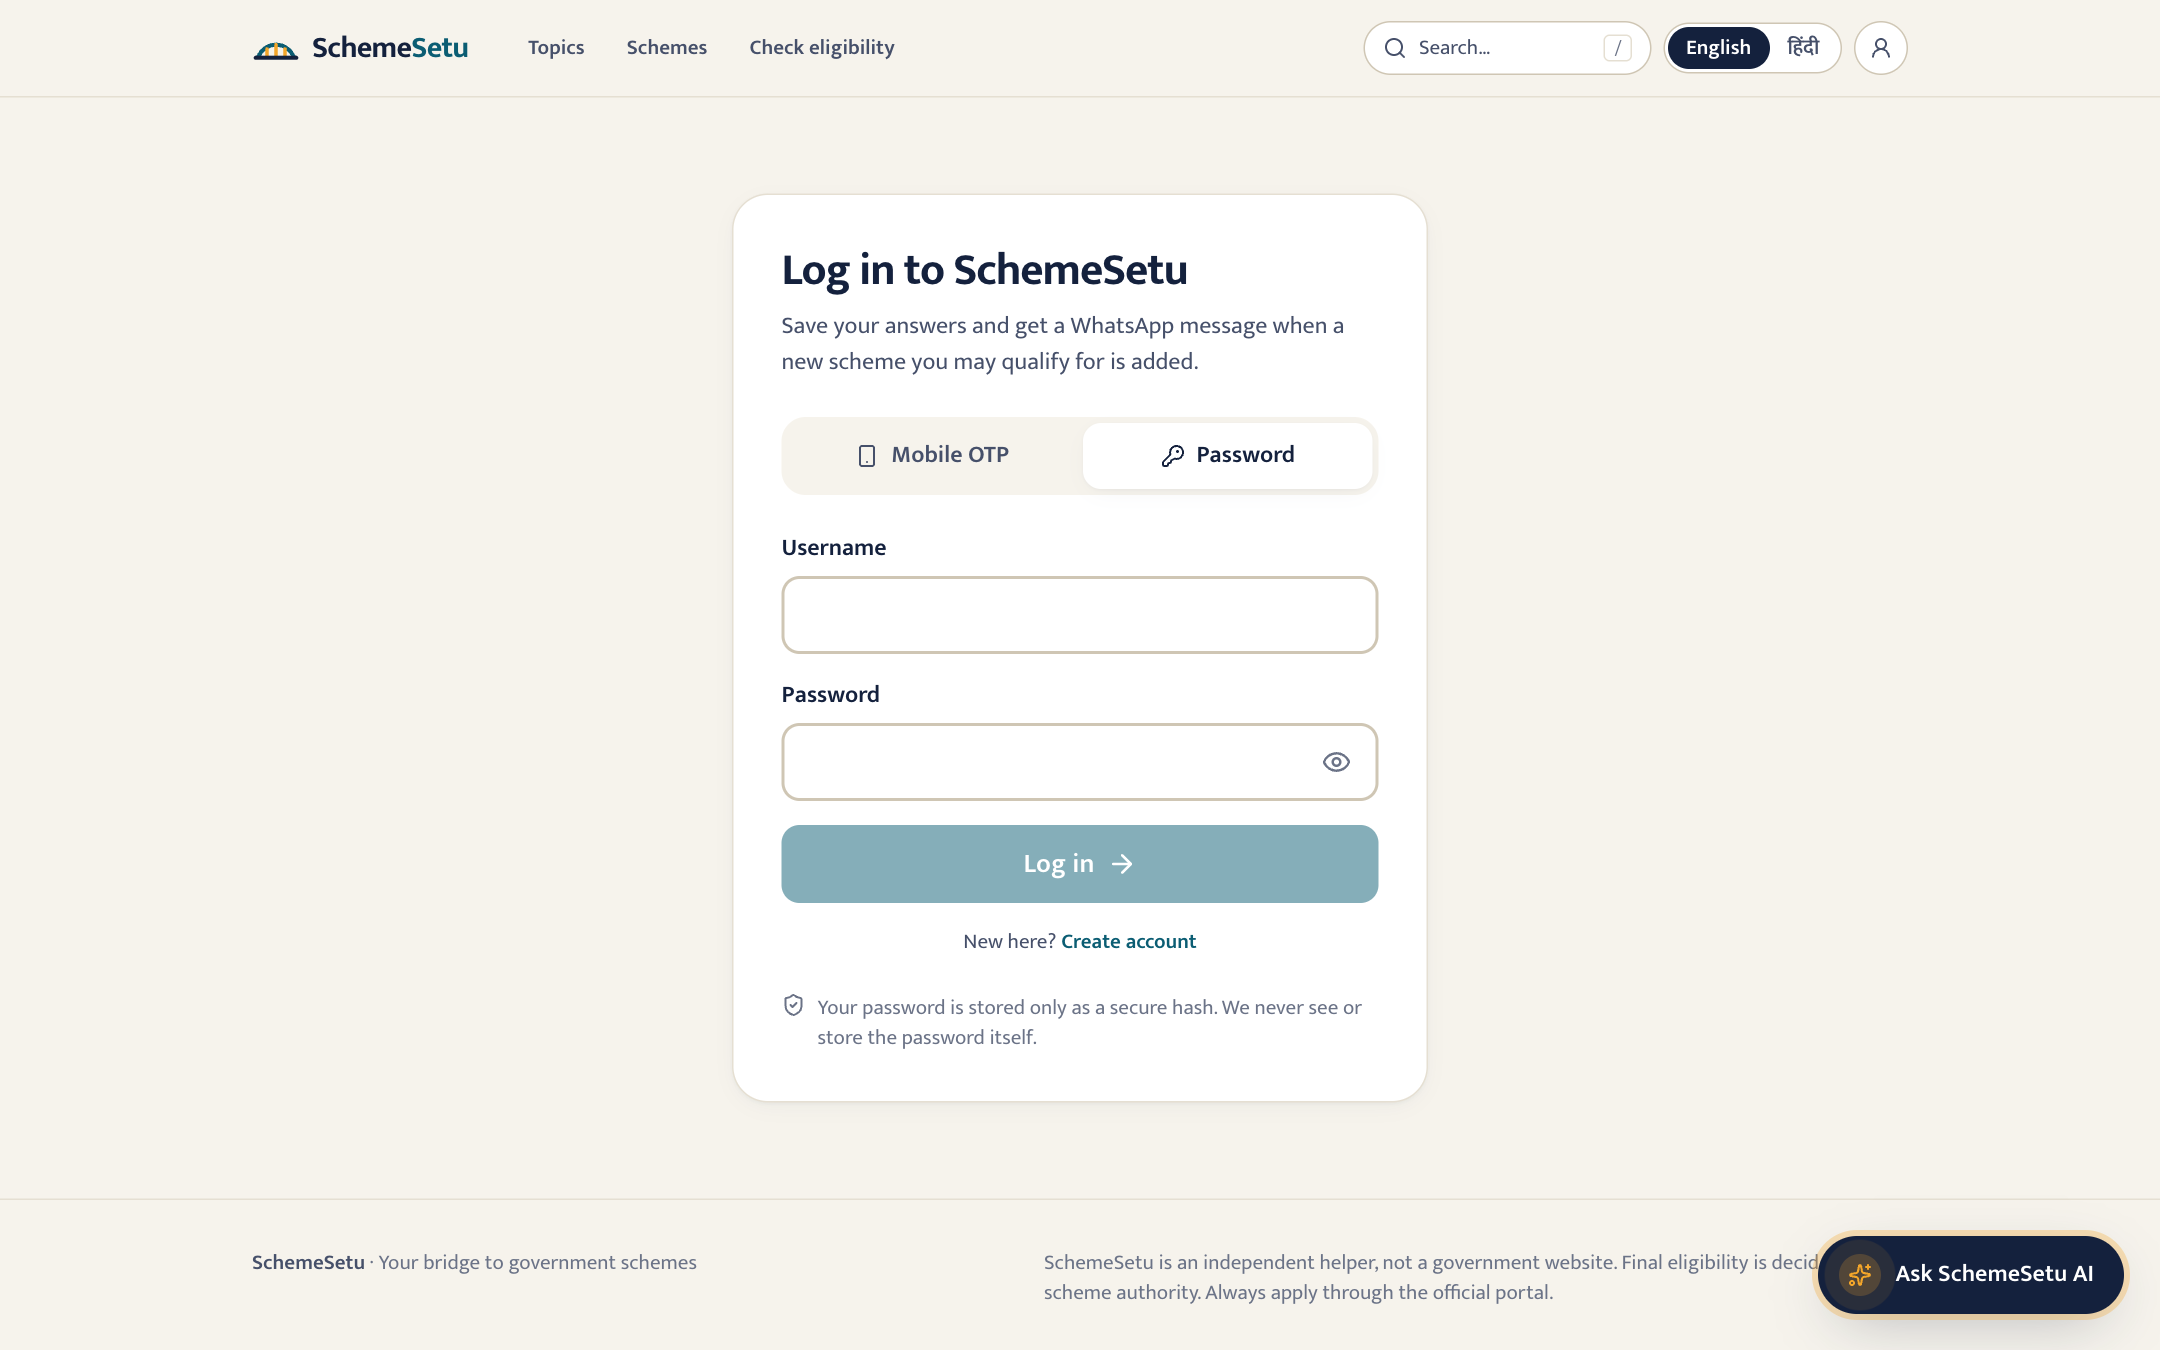
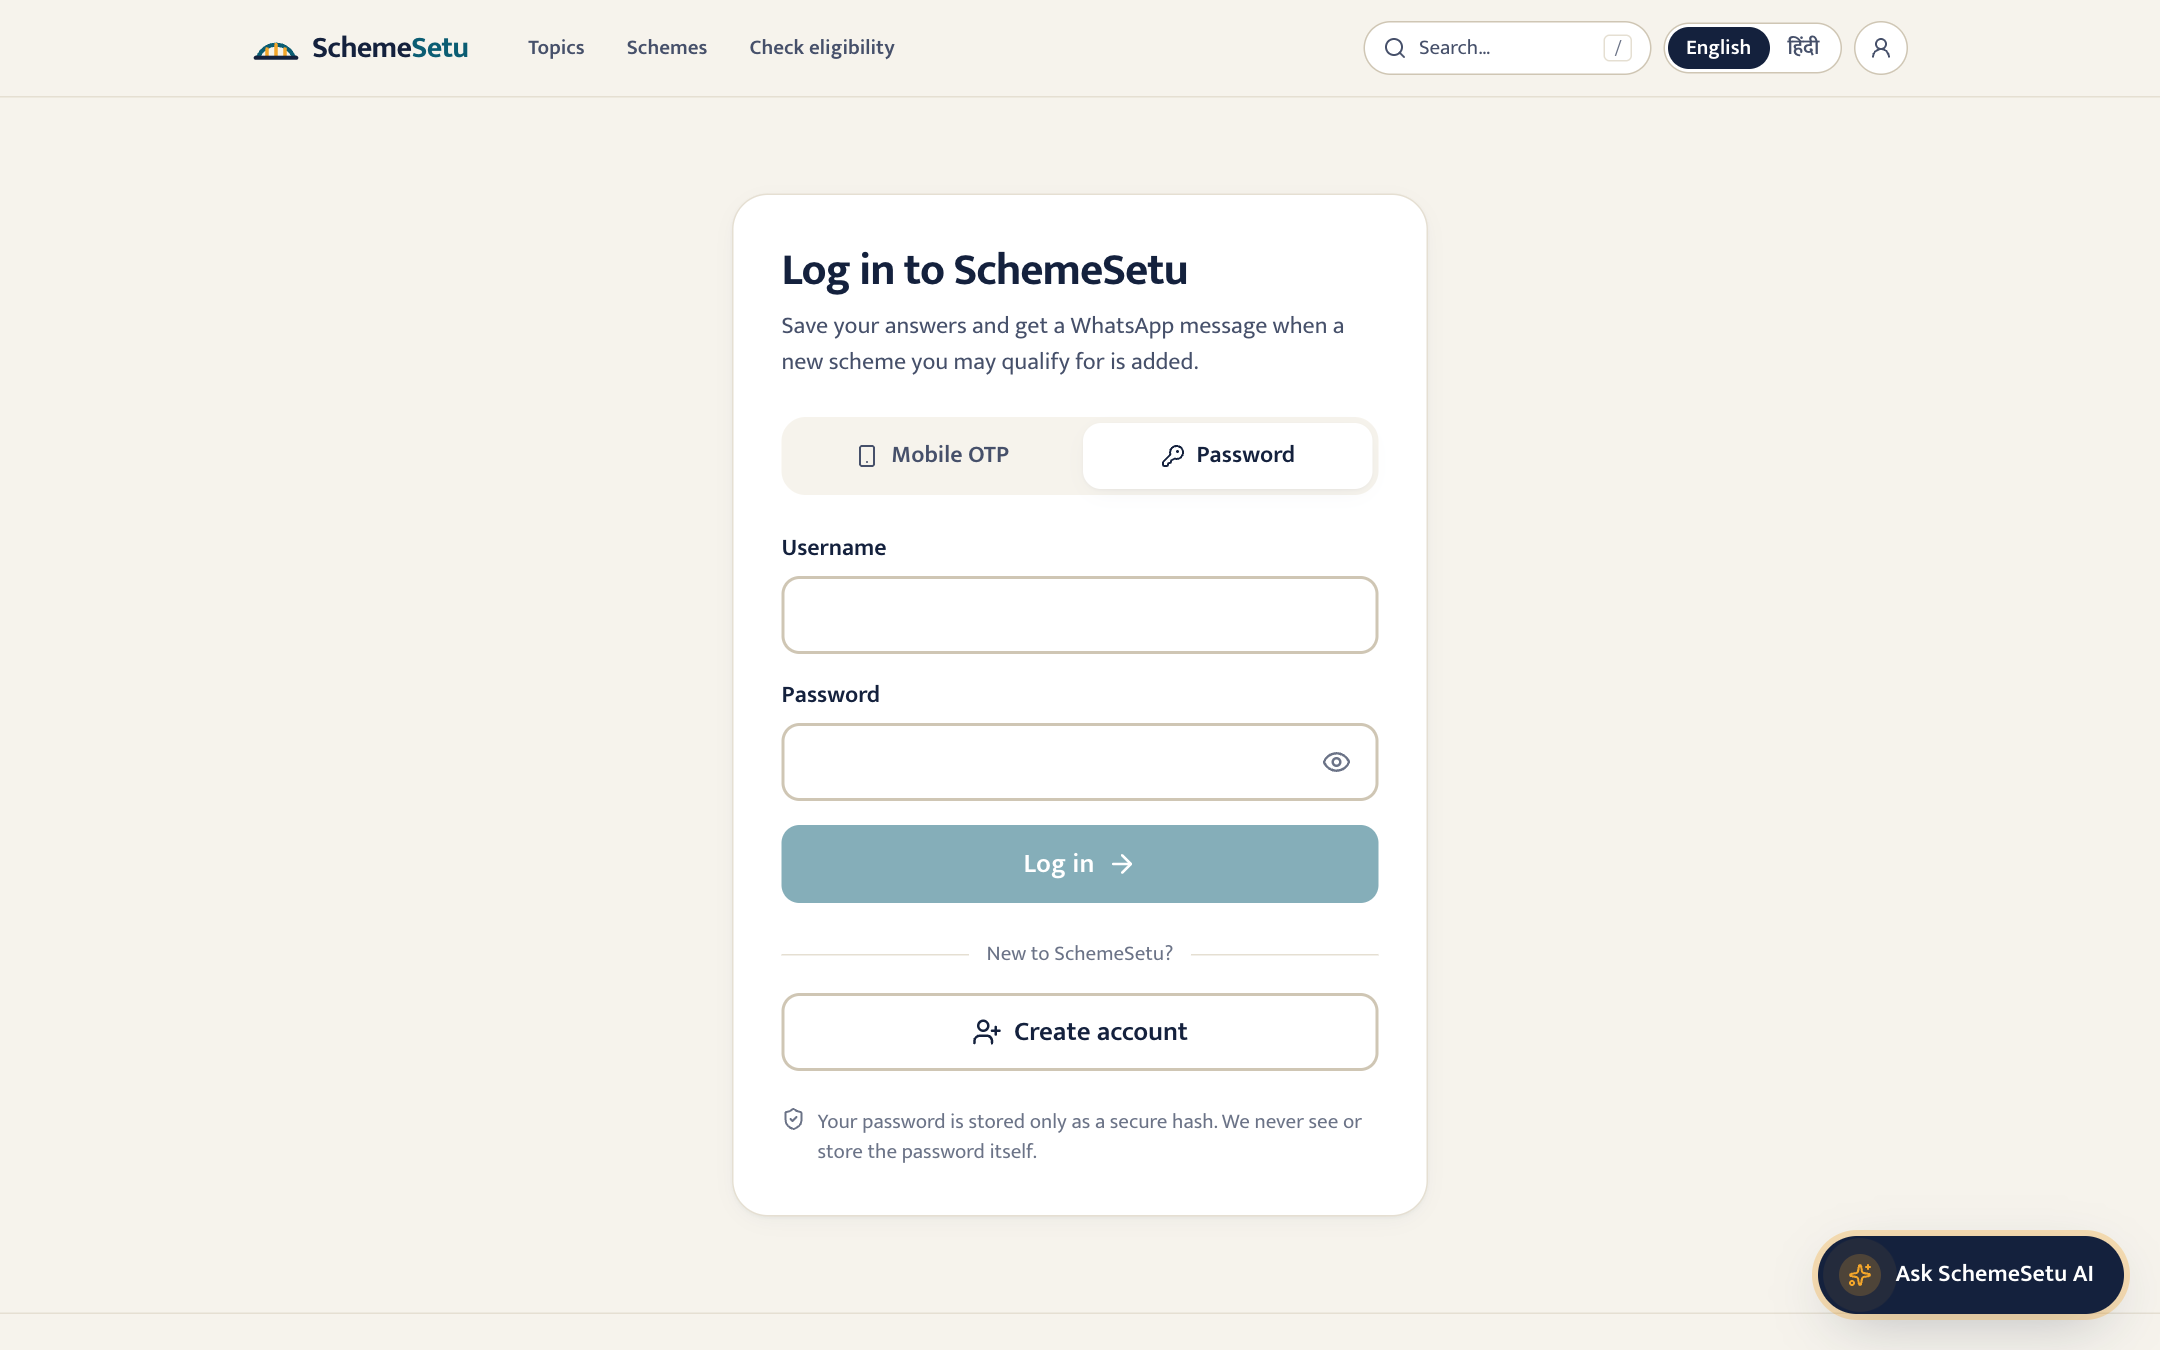
Make sign-up as visible as log-in
A new user who tried "Log in" first only saw "Wrong username or password",
with sign-up hidden behind a small link.

- Full-width "Create account" button under "Log in" (and "Log in" when
  signing up), and a "Create your account" title in sign-up mode.
- The failed-login message tells new users to create an account first;
  the typed username carries over when they switch.
- Errors show right under the button that caused them.
- The OTP tab says that verifying a number creates the account.
- /login?mode=signup opens the sign-up form directly.

diff --git a/frontend/src/components/account/login-form.tsx b/frontend/src/components/account/login-form.tsx
@@ -1,8 +1,8 @@
 "use client";
 
-import { ArrowRight, Eye, EyeOff, KeyRound, LoaderCircle, ShieldCheck, Smartphone } from "lucide-react";
+import { ArrowRight, Eye, EyeOff, KeyRound, LoaderCircle, ShieldCheck, Smartphone, UserPlus } from "lucide-react";
 import { useRouter, useSearchParams } from "next/navigation";
-import { useEffect, useId, useState, type FormEvent } from "react";
+import { useEffect, useId, useState, type FormEvent, type ReactNode } from "react";
 
 import { setMe, useMe } from "@/lib/account";
 import { answersFrom, loadSaved, persistAnswers } from "@/lib/answers";
@@ -15,7 +15,10 @@ const RESEND_SECONDS = 30;
 
 type Method = "otp" | "password";
 
-/** Login with a phone OTP or a username + password. A logged-in account without a phone uses the OTP form to add one. */
+/**
+ * Log in or sign up with a phone OTP, or with a username + password.
+ * ?mode=otp|password|signup picks the starting form. A logged-in account without a phone uses the OTP form to add one.
+ */
 export function LoginForm({ lang }: { lang: Lang }) {
   const t = getDictionary(lang).auth;
   const router = useRouter();
@@ -24,17 +27,22 @@ export function LoginForm({ lang }: { lang: Lang }) {
   const next = params.get("next")?.startsWith("/") ? params.get("next")! : `/${lang}/account`;
   const addingPhone = !!me && !me.phone;
   const mode = params.get("mode");
-  const [method, setMethod] = useState<Method>(mode === "password" ? "password" : "otp");
+  const [method, setMethod] = useState<Method>(mode === "password" || mode === "signup" ? "password" : "otp");
+  const [registering, setRegistering] = useState(mode === "signup");
   const [error, setError] = useState<string | null>(null);
   const [visit, setVisit] = useState(0);
   const active: Method = addingPhone ? "otp" : method;
+  const signingUp = active === "password" && registering;
 
   // Next keeps this route's state alive between visits: follow ?mode= when it changes,
   // and start from empty forms once the user has logged out.
   const [seen, setSeen] = useState({ mode, me });
   if (seen.mode !== mode || seen.me !== me) {
     setSeen({ mode, me });
-    if (seen.mode !== mode && (mode === "otp" || mode === "password")) setMethod(mode);
+    if (seen.mode !== mode && (mode === "otp" || mode === "password" || mode === "signup")) {
+      setMethod(mode === "otp" ? "otp" : "password");
+      setRegistering(mode === "signup");
+    }
     if (seen.me && me === null) {
       setVisit((v) => v + 1);
       setError(null);
@@ -64,6 +72,13 @@ export function LoginForm({ lang }: { lang: Lang }) {
     return getDictionary(lang).checker.error;
   }
 
+  const onError = (e: unknown | null) => setError(e ? explain(e) : null);
+  const alert = error && (
+    <p role="alert" className="rounded-xl bg-danger-soft px-4 py-3 font-semibold text-danger">
+      {error}
+    </p>
+  );
+
   const tab = (m: Method) =>
     `flex flex-1 items-center justify-center gap-2 rounded-xl px-3 py-2.5 text-sm font-semibold transition-colors sm:text-base ${
       active === m ? "bg-surface text-ink shadow-card" : "text-ink-2 hover:text-ink"
@@ -71,8 +86,10 @@ export function LoginForm({ lang }: { lang: Lang }) {
 
   return (
     <div className="animate-rise rounded-3xl border border-line bg-surface p-6 shadow-card sm:p-8">
-      <h1 className="text-2xl font-bold tracking-tight sm:text-3xl">{addingPhone ? t.addPhoneTitle : t.title2}</h1>
-      <p className="mt-2 text-ink-2">{addingPhone ? t.addPhoneBody : t.subtitle}</p>
+      <h1 className="text-2xl font-bold tracking-tight sm:text-3xl">
+        {addingPhone ? t.addPhoneTitle : signingUp ? t.signupTitle : t.title2}
+      </h1>
+      <p className="mt-2 text-ink-2">{addingPhone ? t.addPhoneBody : signingUp ? t.signupSubtitle : t.subtitle}</p>
 
       {!addingPhone && (
         <div role="tablist" aria-label={t.title2} className="mt-6 flex gap-1 rounded-2xl bg-paper p-1">
@@ -106,16 +123,22 @@ export function LoginForm({ lang }: { lang: Lang }) {
       )}
 
       {active === "otp" ? (
-        <OtpForm key={visit} lang={lang} onDone={finish} onError={(e) => setError(e ? explain(e) : null)} />
+        <OtpForm key={visit} lang={lang} onDone={finish} onError={onError} alert={alert} hint={!addingPhone} />
       ) : (
-        <PasswordForm key={visit} lang={lang} onDone={finish} onError={(e) => setError(e ? explain(e) : null)} />
+        <PasswordForm
+          key={visit}
+          lang={lang}
+          onDone={finish}
+          onError={onError}
+          alert={alert}
+          registering={registering}
+          onSwitch={() => {
+            setRegistering((r) => !r);
+            setError(null);
+          }}
+        />
       )}
 
-      {error && (
-        <p role="alert" className="mt-4 rounded-xl bg-danger-soft px-4 py-3 font-semibold text-danger">
-          {error}
-        </p>
-      )}
       <p className="mt-6 flex gap-2 text-sm text-ink-3">
         <ShieldCheck className="size-4 shrink-0" aria-hidden="true" />
         {active === "password" ? t.passwordPrivacy : t.privacy}
@@ -128,10 +151,18 @@ const inputClass =
   "min-h-13 w-full rounded-xl border-2 border-line-strong bg-surface px-4 text-lg outline-none focus:border-brand";
 const buttonClass =
   "inline-flex min-h-13 w-full items-center justify-center gap-2 rounded-xl bg-brand px-5 text-lg font-semibold text-white transition hover:bg-brand-strong disabled:opacity-50";
+const secondaryButtonClass =
+  "inline-flex min-h-13 w-full items-center justify-center gap-2 rounded-xl border-2 border-line-strong bg-surface px-5 text-lg font-semibold text-ink transition hover:border-brand hover:text-brand";
 
-type FormProps = { lang: Lang; onDone: (me: Me) => Promise<void>; onError: (e: unknown | null) => void };
+type FormProps = {
+  lang: Lang;
+  onDone: (me: Me) => Promise<void>;
+  onError: (e: unknown | null) => void;
+  /** The current error, shown right under the submit button. */
+  alert: ReactNode;
+};
 
-function OtpForm({ lang, onDone, onError }: FormProps) {
+function OtpForm({ lang, onDone, onError, alert, hint }: FormProps & { hint: boolean }) {
   const t = getDictionary(lang).auth;
   const [step, setStep] = useState<"phone" | "code">("phone");
   const [phone, setPhone] = useState("");
@@ -195,6 +226,8 @@ function OtpForm({ lang, onDone, onError }: FormProps) {
           {t.sendCode}
           <ArrowRight className="size-5" aria-hidden="true" />
         </button>
+        {alert}
+        {hint && <p className="text-center text-sm text-ink-2">{t.otpNewHint}</p>}
       </form>
     );
   }
@@ -218,6 +251,7 @@ function OtpForm({ lang, onDone, onError }: FormProps) {
         {busy ? <LoaderCircle className="size-5 animate-spin" aria-hidden="true" /> : null}
         {t.verify}
       </button>
+      {alert}
       <div className="flex flex-wrap justify-between gap-2 text-sm font-semibold">
         <button type="button" onClick={() => setStep("phone")} className="text-ink-2 hover:text-ink">
           {t.changeNumber}
@@ -230,16 +264,21 @@ function OtpForm({ lang, onDone, onError }: FormProps) {
   );
 }
 
-function PasswordForm({ lang, onDone, onError }: FormProps) {
+function PasswordForm({
+  lang,
+  onDone,
+  onError,
+  alert,
+  registering,
+  onSwitch,
+}: FormProps & { registering: boolean; onSwitch: () => void }) {
   const t = getDictionary(lang).auth;
-  const [mode, setMode] = useState<"login" | "register">("login");
   const [username, setUsername] = useState("");
   const [password, setPassword] = useState("");
   const [confirm, setConfirm] = useState("");
   const [visible, setVisible] = useState(false);
   const [busy, setBusy] = useState(false);
   const id = useId();
-  const registering = mode === "register";
 
   async function submit(e: FormEvent) {
     e.preventDefault();
@@ -339,19 +378,22 @@ function PasswordForm({ lang, onDone, onError }: FormProps) {
         {registering ? t.createAccount : t.signIn}
         <ArrowRight className="size-5" aria-hidden="true" />
       </button>
-      <p className="text-center text-sm text-ink-2">
-        {registering ? t.haveAccount : t.noAccount}{" "}
-        <button
-          type="button"
-          onClick={() => {
-            setMode(registering ? "login" : "register");
-            onError(null);
-          }}
-          className="font-semibold text-brand hover:text-brand-strong"
-        >
-          {registering ? t.signIn : t.createAccount}
-        </button>
-      </p>
+      {alert}
+
+      {/* Signing up is as visible as logging in: a full button, not a small link. */}
+      <div className="flex items-center gap-3 pt-2 text-sm text-ink-3">
+        <span className="h-px flex-1 bg-line" aria-hidden="true" />
+        {registering ? t.haveAccount : t.noAccount}
+        <span className="h-px flex-1 bg-line" aria-hidden="true" />
+      </div>
+      <button type="button" onClick={onSwitch} className={secondaryButtonClass}>
+        {registering ? (
+          <KeyRound className="size-5" aria-hidden="true" />
+        ) : (
+          <UserPlus className="size-5" aria-hidden="true" />
+        )}
+        {registering ? t.signIn : t.createAccount}
+      </button>
     </form>
   );
 }

diff --git a/frontend/src/lib/i18n.ts b/frontend/src/lib/i18n.ts
@@ -131,6 +131,9 @@ const en = {
     changeNumber: "Change number",
     privacy: "We only store your phone number and the answers you choose to save. You can delete them any time.",
     title2: "Log in to SchemeSetu",
+    signupTitle: "Create your account",
+    signupSubtitle: "Pick a username and password. No phone number or ID needed.",
+    otpNewHint: "New here? No separate sign-up: verifying your number creates your account.",
     tabOtp: "Mobile OTP",
     tabPassword: "Password",
     signIn: "Log in",
@@ -143,12 +146,12 @@ const en = {
     mismatch: "The passwords don't match.",
     show: "Show password",
     hide: "Hide password",
-    noAccount: "New here?",
+    noAccount: "New to SchemeSetu?",
     haveAccount: "Already have an account?",
     passwordPrivacy: "Your password is stored only as a secure hash. We never see or store the password itself.",
     addPhoneTitle: "Add your phone number",
     addPhoneBody: "Verify your number to get WhatsApp alerts for new schemes.",
-    wrongCreds: "Wrong username or password.",
+    wrongCreds: "Wrong username or password. New here? Create an account first.",
     usernameTaken: "That username is taken. Try another.",
     phoneTaken: "This number is already linked to another account.",
     tooMany: "Too many wrong attempts. Try again in 15 minutes.",
@@ -414,6 +417,9 @@ const hi: Dictionary = {
     changeNumber: "नंबर बदलें",
     privacy: "हम सिर्फ़ आपका फ़ोन नंबर और आपके चुने हुए जवाब रखते हैं। आप इन्हें कभी भी मिटा सकते हैं।",
     title2: "SchemeSetu में लॉग इन करें",
+    signupTitle: "अपना खाता बनाएँ",
+    signupSubtitle: "एक यूज़रनेम और पासवर्ड चुनें। फ़ोन नंबर या पहचान पत्र की ज़रूरत नहीं।",
+    otpNewHint: "नए हैं? अलग से साइन अप की ज़रूरत नहीं: नंबर सत्यापित करते ही आपका खाता बन जाएगा।",
     tabOtp: "मोबाइल OTP",
     tabPassword: "पासवर्ड",
     signIn: "लॉग इन",
@@ -426,12 +432,12 @@ const hi: Dictionary = {
     mismatch: "दोनों पासवर्ड एक जैसे नहीं हैं।",
     show: "पासवर्ड दिखाएँ",
     hide: "पासवर्ड छिपाएँ",
-    noAccount: "नए हैं?",
+    noAccount: "SchemeSetu पर नए हैं?",
     haveAccount: "पहले से खाता है?",
     passwordPrivacy: "आपका पासवर्ड सिर्फ़ सुरक्षित हैश के रूप में रखा जाता है। हम असली पासवर्ड न देखते हैं, न रखते हैं।",
     addPhoneTitle: "अपना फ़ोन नंबर जोड़ें",
     addPhoneBody: "नई योजनाओं के WhatsApp संदेश पाने के लिए अपना नंबर सत्यापित करें।",
-    wrongCreds: "यूज़रनेम या पासवर्ड गलत है।",
+    wrongCreds: "यूज़रनेम या पासवर्ड गलत है। नए हैं? पहले खाता बनाएँ।",
     usernameTaken: "यह यूज़रनेम पहले से लिया हुआ है। कोई दूसरा चुनें।",
     phoneTaken: "यह नंबर पहले से किसी दूसरे खाते से जुड़ा है।",
     tooMany: "बहुत बार गलत कोशिश हुई। 15 मिनट बाद फिर कोशिश करें।",
